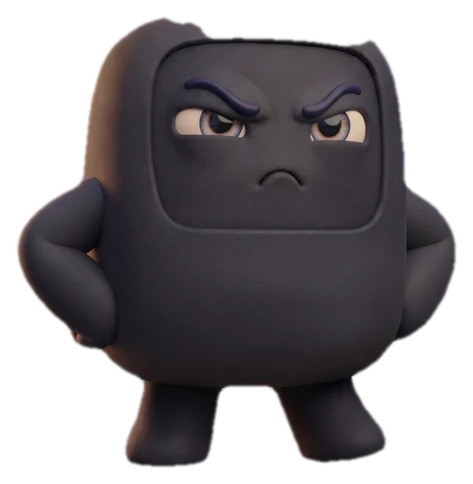
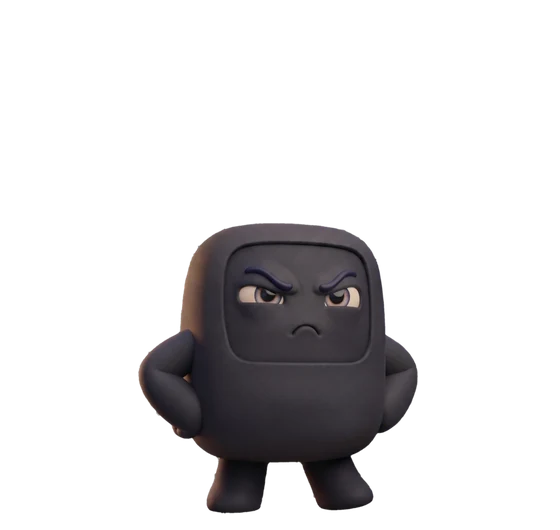
Landing page: fix distorted buddy
The buddy is a picture, but Bip's squash-and-stretch animation was applied
to it, warping it up to 14%. Pictures now only float. Also re-cut the
seven poses by modelling the painted checkerboard cell by cell (clean
smooth outlines, no leftover fragments or watermark) and normalised them
to one size and floor line so the character no longer jumps between moods.

diff --git a/docs/assets/bip.js b/docs/assets/bip.js
@@ -211,6 +211,7 @@
 
   // Sarthak's buddy (or Bip) in any container: <span> for an <img>, or the svg itself for Bip
   function mascot(el, o = {}) {
+    el.classList.toggle("is-img", o.who === "sarthak");
     if (o.who === "sarthak") {
       const src = `${Bip.assetBase}mascot/${POSE[o.mood] || "notebook"}.webp`;
       let img = el.querySelector("img.sarthak");
@@ -231,6 +232,8 @@
       const st = document.createElement("style");
       st.textContent = `.bip-live{transform-origin:50% 95%;animation:bip-breathe 2.8s ease-in-out infinite}
         @keyframes bip-breathe{50%{transform:scale(1.025,.972)}}
+        .bip-live.is-img{animation:bip-float 3.2s ease-in-out infinite}
+        @keyframes bip-float{50%{transform:translateY(-2.5%)}}
         .bip-live img.sarthak{width:100%;height:100%;object-fit:contain;display:block}
         :root[data-theme="dark"] img.sarthak{filter:drop-shadow(0 0 .6px rgba(255,255,255,.45)) drop-shadow(0 0 10px rgba(255,255,255,.06))}
         @media (prefers-color-scheme: dark){:root:not([data-theme="light"]) img.sarthak{filter:drop-shadow(0 0 .6px rgba(255,255,255,.45)) drop-shadow(0 0 10px rgba(255,255,255,.06))}}
